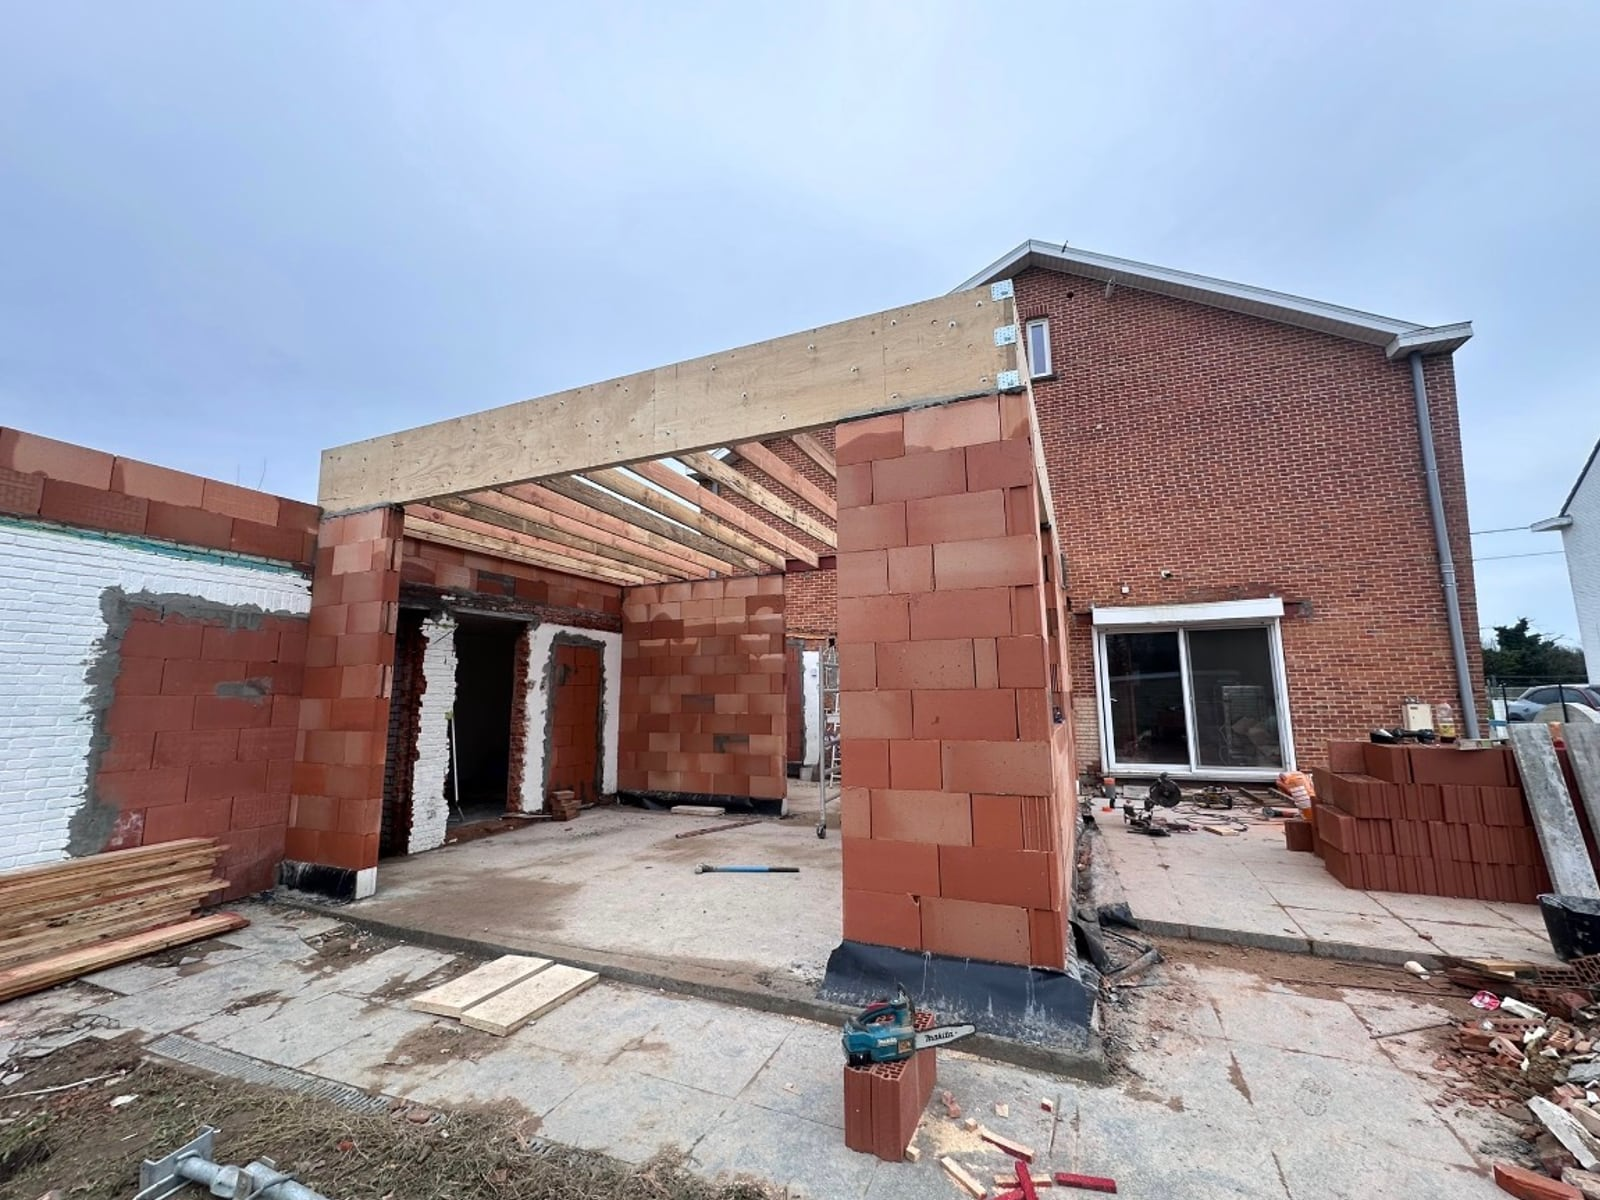
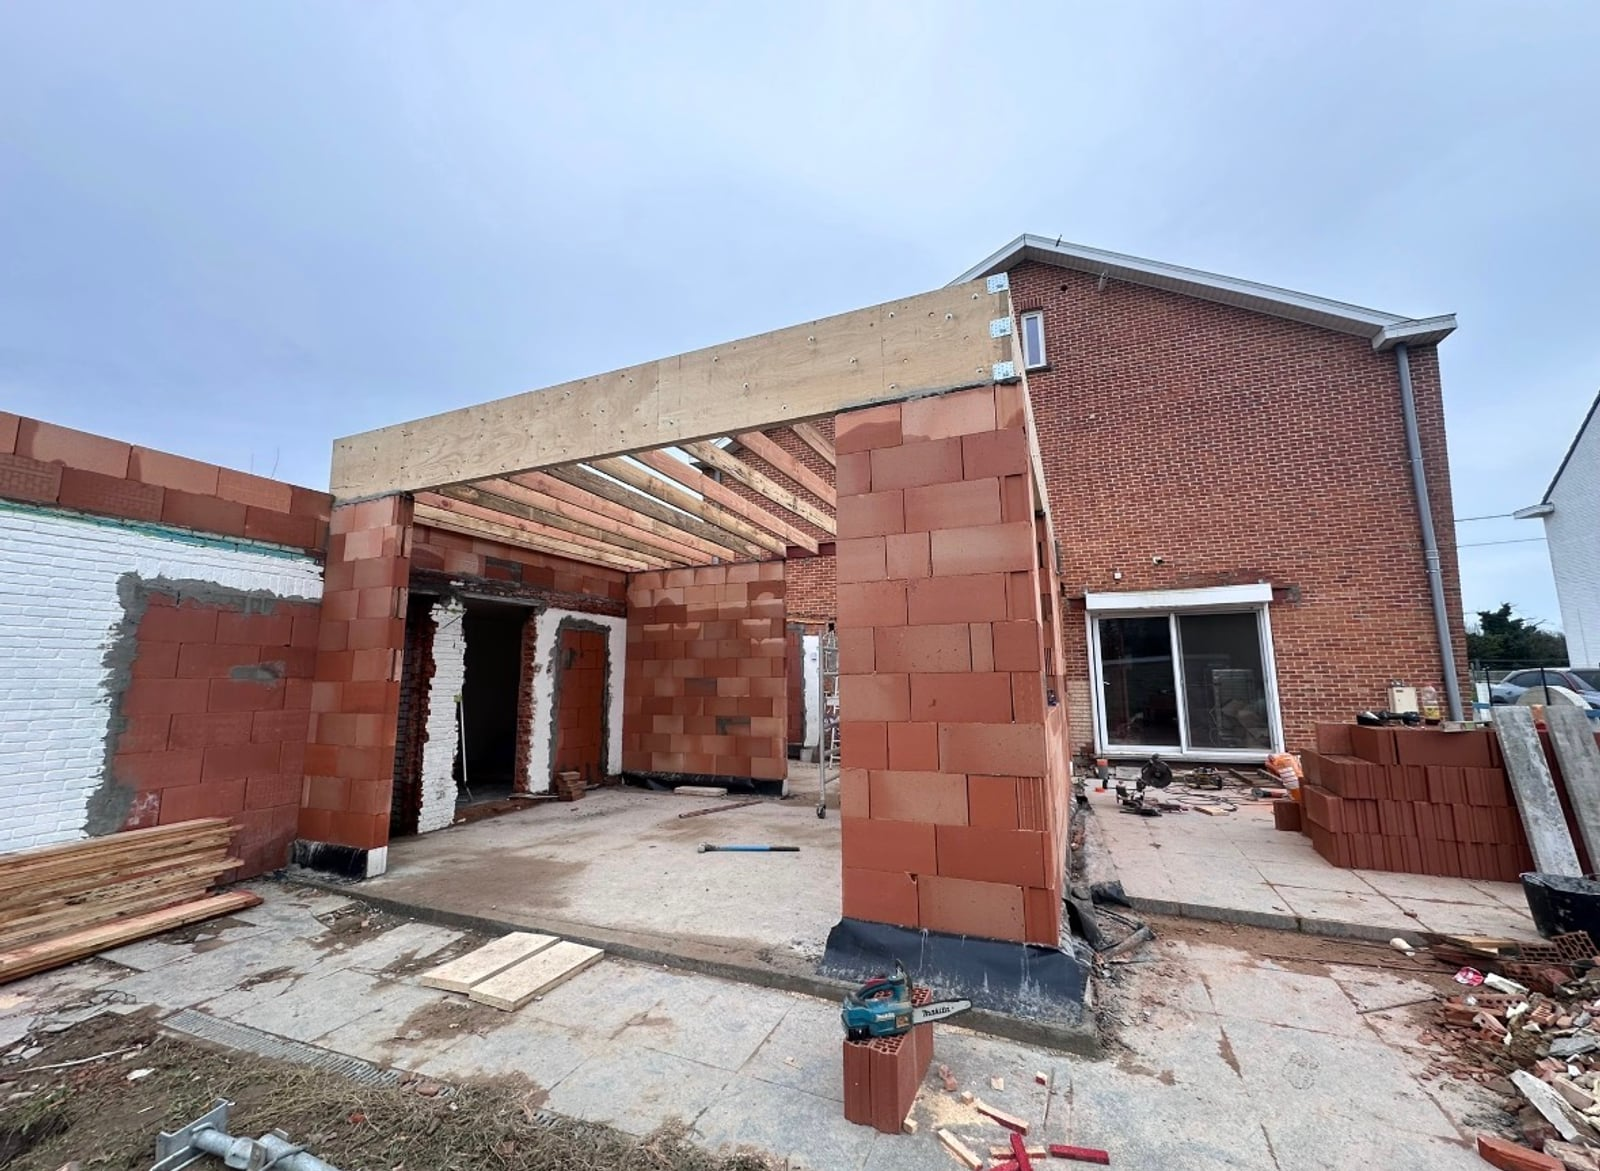
schuif toont de aanbouw met jouw uitsnede; foto bij Over ons; coordinatiezin
De na-foto van de schuif is de versie die Mohammed zelf heeft bijgesneden:
het raam van het huis erachter valt daar buiten beeld en de aanbouw staat
centraal. Ongewijzigd overgenomen, alleen op maat geschaald.

De voor-foto blijft het origineel; die wordt niet bijgesneden. De schuif toont
beide met object-fit cover, dus de weergave regelt het verschil in verhouding
en het bestand blijft heel.

Over ons: de foto naast de afspraken is de nieuwe opname van de afgewerkte
leefruimte met het verlaagde plafond en de lichtlijnen.

Over-tekst op de homepage: "de planning, de afstemming tussen de vakken en de
opvolging op de werf nemen wij over" is vervangen door "Wij coordineren alle
bouwactiviteiten die nodig zijn voor de realisatie van uw bouwwerk" -- de
formulering die Mohammed aanleverde.

npm run verify groen.

diff --git a/src/pages/abbouw/OverOns.tsx b/src/pages/abbouw/OverOns.tsx
@@ -2,7 +2,7 @@ import { useEffect } from 'react';
 import '@/styles/roofpro.css';
 import hero from '@/assets/home/hero-over.jpg';
 import about from '@/assets/home/about.jpg';
-import why from '@/assets/home/why.jpg';
+import why from '@/assets/home/why-nieuw.jpg';
 import { CONTACT } from '@/data/contact';
 import { ic, rpNav, rpFooter, wireMobielMenu } from './_rp';
 
@@ -111,7 +111,7 @@ ${rpNav('/over')}
   <div class="rp-wrap">
     <div class="rp-split rp-split--om">
       <div class="rp-split__media">
-        <img src="${why}" alt="Vakman van AB Bouw Groep aan het werk" width="560" height="420" loading="lazy" decoding="async"/>
+        <img src="${why}" alt="Afgewerkte leefruimte met verlaagd plafond en lichtlijnen, door AB Bouw Groep" width="560" height="420" loading="lazy" decoding="async"/>
       </div>
       <div>
         <span class="rp-eyebrow">${ic.mark} Wat wij vastleggen</span>

diff --git a/src/pages/abbouw/lp/replica/inhoud.ts b/src/pages/abbouw/lp/replica/inhoud.ts
@@ -556,7 +556,7 @@ export const HOME: PaginaInhoud = {
 
   over: {
     kop: ['Uw vaste', 'totaalaannemer'],
-    tekst: 'Of uw plannen nu vastliggen of nog moeten groeien: wij begeleiden u van het eerste gesprek tot de oplevering. U schakelt één afdeling in of ze allemaal; de planning, de afstemming tussen de vakken en de opvolging op de werf nemen wij over.',
+    tekst: 'Of uw plannen nu vastliggen of nog moeten groeien: wij begeleiden u van het eerste gesprek tot de oplevering. U schakelt één afdeling in of ze allemaal. Wij coördineren alle bouwactiviteiten die nodig zijn voor de realisatie van uw bouwwerk.',
     slot: '',
     foto: homeOver,
     alt: 'Leefruimte met open keuken en glazen pui na een totaalrenovatie door AB Bouw Groep',
